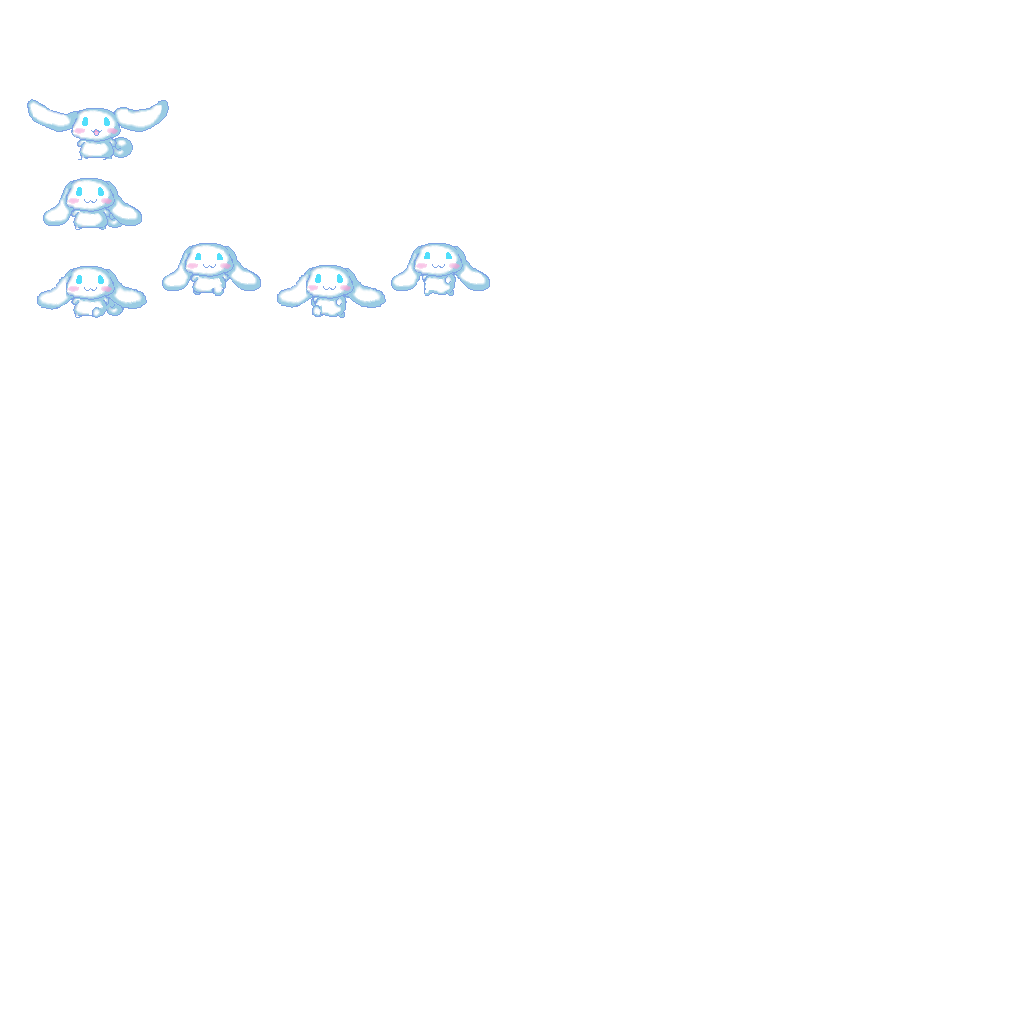
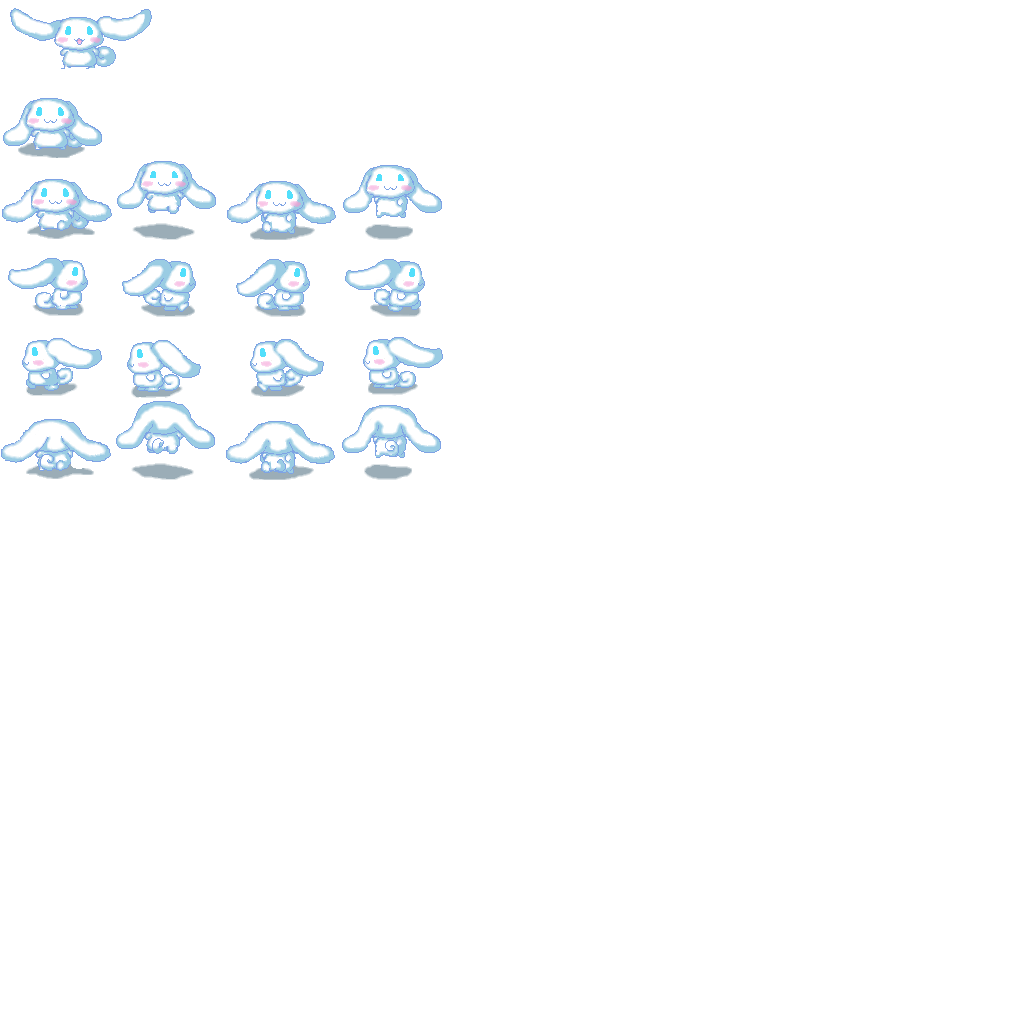
adding new sprites and making it works, todo: talk button and pop up

Changed region(s): [[0.0, 0.0, 0.5, 0.4688]]

diff --git a/tp0/script.js b/tp0/script.js
@@ -1,19 +1,71 @@
-DIRECTION = {
+let DIRECTION = {
     DOWN: {x:0,y:1,moving:false},
     UP: {x:0,y:-1,moving:false},
     LEFT: {x:-1,y:0,moving:false},
     RIGHT: {x:1,y:0,moving:false}
 }
+let ANIMATION = {
+    DEFAULT:{left:0,top:80,width:112,height:80,frames:1},
+    DOWN:{left:0,top:160,width:112,height:80,frames:4},
+    UP:{left:0,top:400,width:112,height:80,frames:4},
+    LEFT:{left:0,top:320,width:112,height:80,frames:4},
+    RIGHT:{left:0,top:240,width:112,height:80,frames:4}
+}
 class Player{
     constructor(){
         this.x = 0;
         this.y = 0;
-        this.move_speed = 10;
+        this.move_speed = 5;
         this.img = document.getElementById("img_prota");
+        this.animation = "default";
+        this.last_animation = Date.now();
+        this.animation_speed = 200;
+        this.frame = 0;
     }
     update(){
         this.img.style.left= this.x + "px";
         this.img.style.top= this.y + "px";
+    }
+    animateWalk() {
+        let now = Date.now();
+        if((now-this.last_animation) >= this.animation_speed) {
+            if(this.animation=="walk_down"){
+                this.img.style.width = ANIMATION.DOWN.width + "px";
+                this.img.style.height = ANIMATION.DOWN.height + "px";
+                this.img.style.backgroundPosition =`-${ANIMATION.DOWN.width*this.frame}px -${ANIMATION.DOWN.top}px`;
+                this.frame++;
+                if(this.frame>=ANIMATION.DOWN.frames) this.frame = 0;
+            }
+            if(this.animation=="walk_up"){
+                this.img.style.width = ANIMATION.UP.width + "px";
+                this.img.style.height = ANIMATION.UP.height + "px";
+                this.img.style.backgroundPosition =`-${ANIMATION.UP.width*this.frame}px -${ANIMATION.UP.top}px`;
+                this.frame++;
+                if(this.frame>=ANIMATION.UP.frames) this.frame = 0;
+            }
+            if(this.animation=="walk_left"){
+                this.img.style.width = ANIMATION.LEFT.width + "px";
+                this.img.style.height = ANIMATION.LEFT.height + "px";
+                this.img.style.backgroundPosition =`-${ANIMATION.LEFT.width*this.frame}px -${ANIMATION.LEFT.top}px`;
+                this.frame++;
+                if(this.frame>=ANIMATION.LEFT.frames) this.frame = 0;
+            }
+            if(this.animation=="walk_right"){
+                this.img.style.width = ANIMATION.RIGHT.width + "px";
+                this.img.style.height = ANIMATION.RIGHT.height + "px";
+                this.img.style.backgroundPosition =`-${ANIMATION.RIGHT.width*this.frame}px -${ANIMATION.RIGHT.top}px`;
+                this.frame++;
+                if(this.frame>=ANIMATION.RIGHT.frames) this.frame = 0;
+            }
+            if(this.animation=="default"){
+                this.img.style.width = ANIMATION.DEFAULT.width + "px";
+                this.img.style.height = ANIMATION.DEFAULT.height + "px";
+                this.img.style.backgroundPosition =`-${ANIMATION.DEFAULT.width*this.frame}px -${ANIMATION.DEFAULT.top}px`;
+                this.frame++;
+                if(this.frame>=ANIMATION.DEFAULT.frames) this.frame = 0;
+            }
+            this.last_animation = now;
+        }
     }
     move() {
         let dx = 0;
@@ -25,21 +77,34 @@ class Player{
         if (DIRECTION.UP.moving && this.y>0) {
             dx += DIRECTION.UP.x;
             dy += DIRECTION.UP.y;
+            if(this.animation!="walk_up") this.frame = 0;
+            this.animation = "walk_up";
         }
         if (DIRECTION.DOWN.moving && this.y<page_height && this.y < page_height - img_height) {
             dx += DIRECTION.DOWN.x;
             dy += DIRECTION.DOWN.y;
+            if(this.animation!="walk_down") this.frame = 0;
+            this.animation = "walk_down";
         }
         if (DIRECTION.LEFT.moving && this.x>0) {
             dx += DIRECTION.LEFT.x;
             dy += DIRECTION.LEFT.y;
+            if(this.animation!="walk_left") this.frame = 0;
+            this.animation = "walk_left";
         }
         if (DIRECTION.RIGHT.moving && this.x<page_height && this.x < page_width - img_width) {
             dx += DIRECTION.RIGHT.x;
             dy += DIRECTION.RIGHT.y;
+            if(this.animation!="walk_right") this.frame = 0;
+            this.animation = "walk_right";
         }
         this.x += this.move_speed * dx;
         this.y += this.move_speed * dy;
+        if(!(dx!=0 || dy!=0)){
+            this.frame = 0;
+            this.animation = "default";
+        }
+        this.animateWalk();
         this.update();
     }
 }

diff --git a/tp0/styles.css b/tp0/styles.css
@@ -83,4 +83,6 @@ main li{
     z-index:1000;
     background-image: url("assets/cina1.png");
     background-repeat: no-repeat;
+    transform: scale(1.5);
+    transform-origin: top left;
 }
